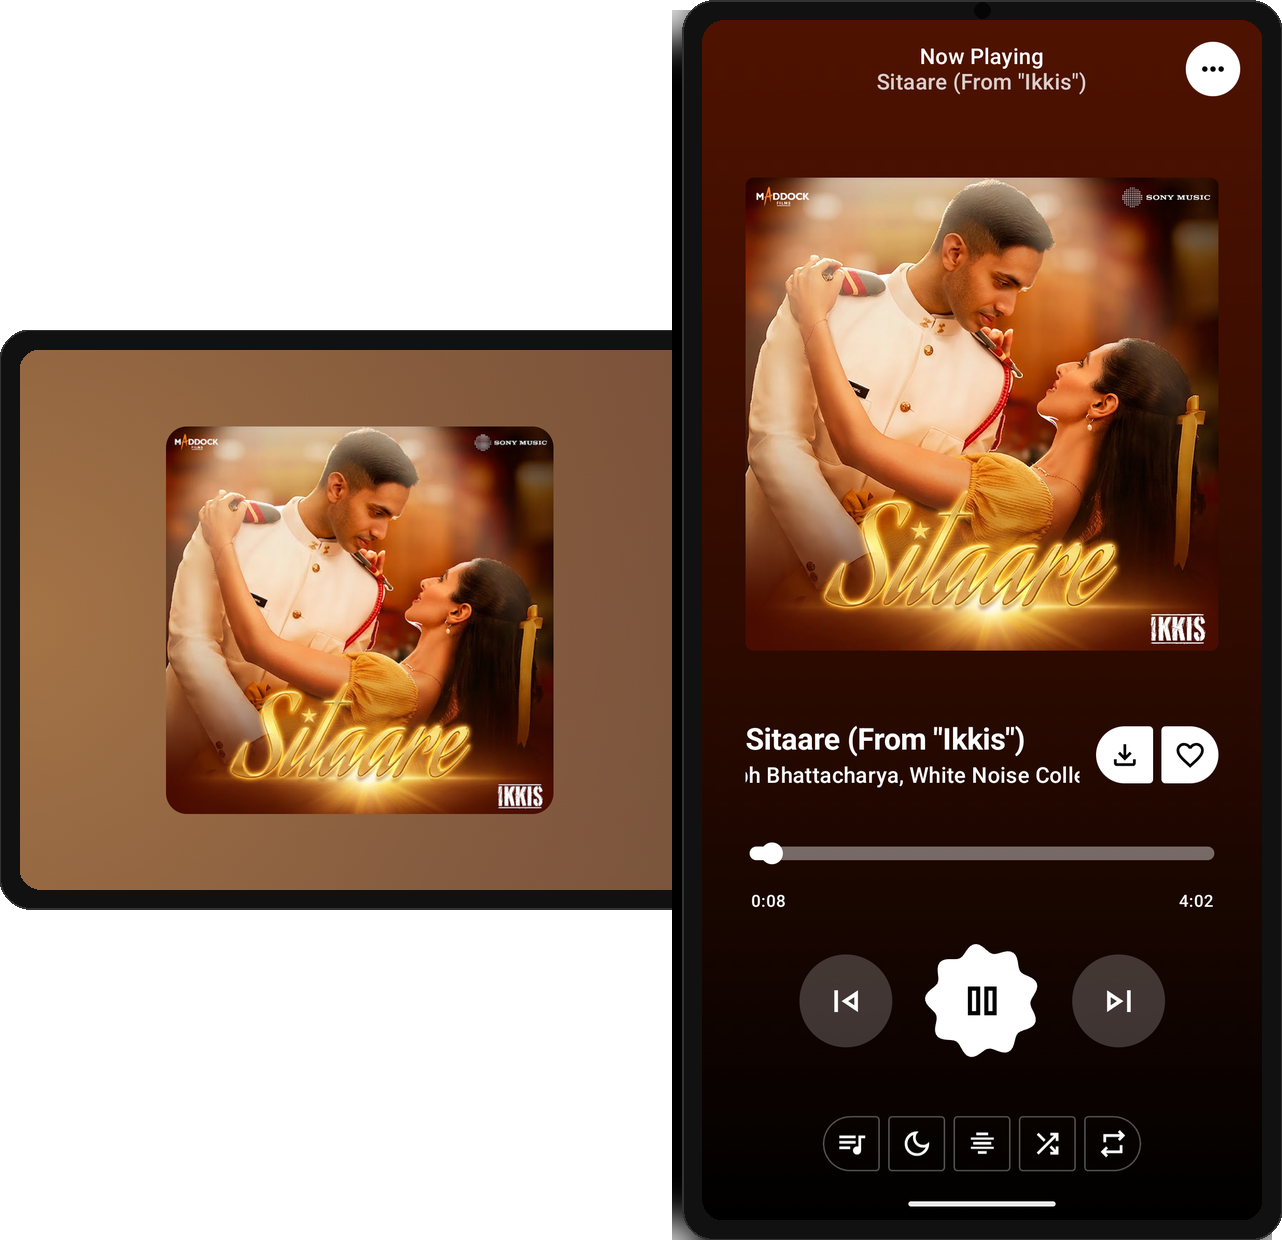
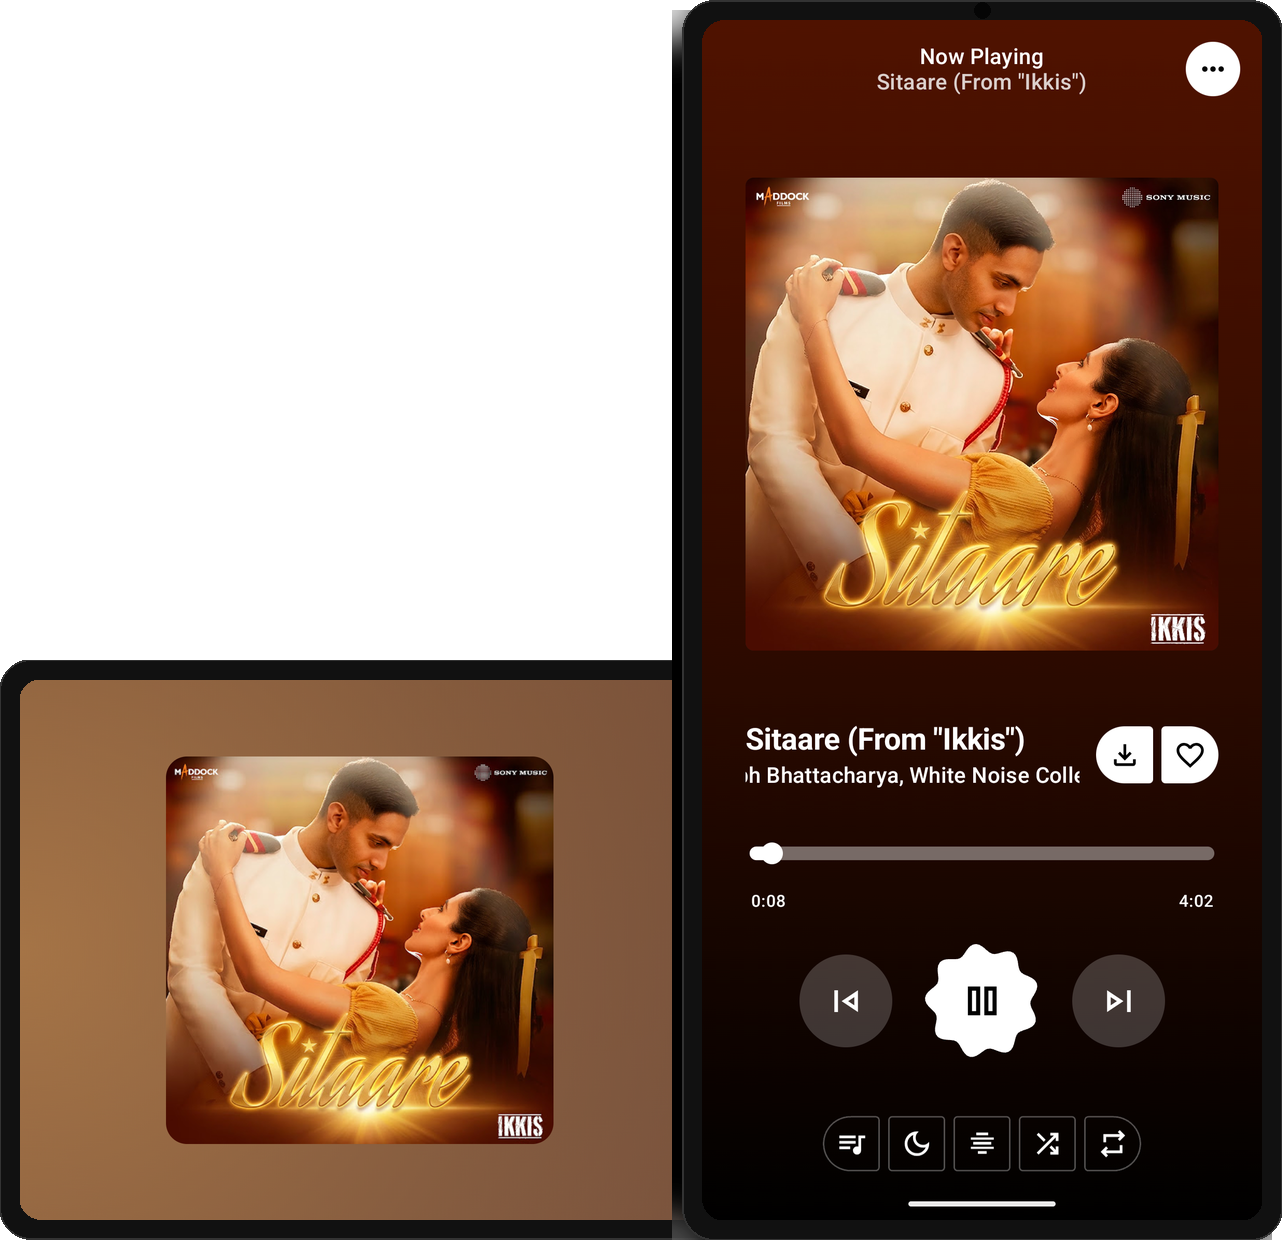
Align horizontal mockup to the bottom of the canvas

diff --git a/composite_mockups.py b/composite_mockups.py
@@ -15,13 +15,13 @@ def create_composite():
     canvas = Image.new("RGBA", (canvas_w, canvas_h), (0,0,0,0))
     
     # Paste horizontal first (background)
-    # vertically center horizontal image relative to the canvas
-    h_y = (canvas_h - hh) // 2
+    # Align horizontal image to the bottom
+    h_y = canvas_h - hh
     canvas.paste(horizontal, (0, h_y), horizontal)
     
     # Paste vertical (foreground)
-    # vertically center vertical image
-    v_y = (canvas_h - vh) // 2
+    # Align vertical image to the bottom
+    v_y = canvas_h - vh
     v_x = hw - overlap
     
     # Add some drop shadow to vertical image
